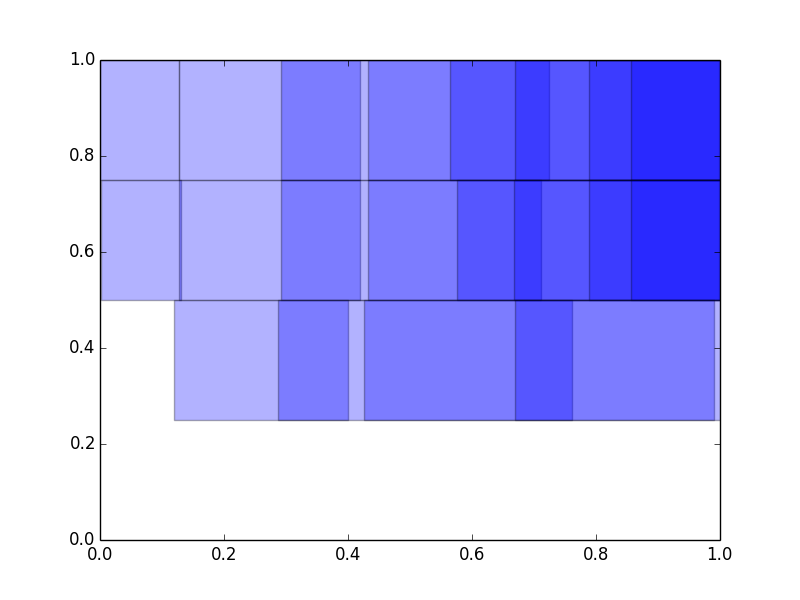
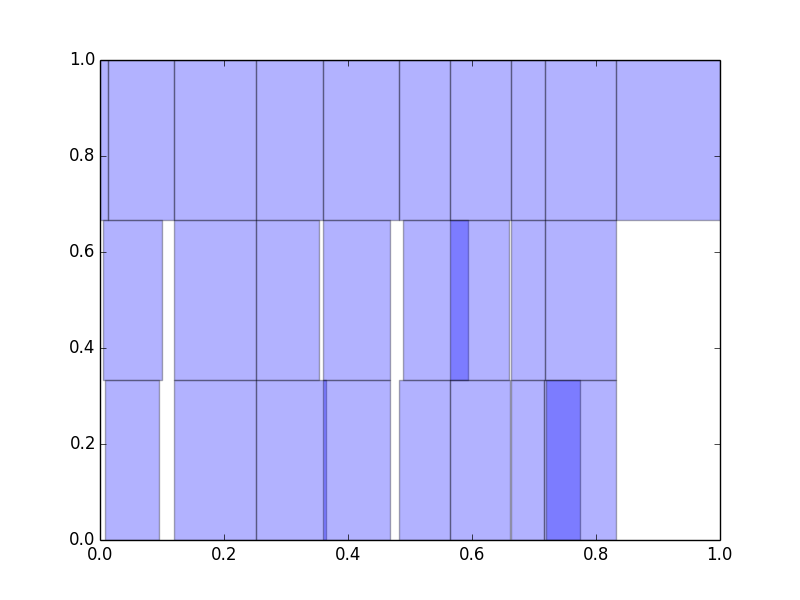
fixed rectangle drawing, improved parameters and neighbor search

diff --git a/meta_alignment.py b/meta_alignment.py
@@ -34,7 +34,7 @@ def extract_match_feature(file, reffile):
     featurefile = (file.replace(audiodir, '') + '_' + reffile.replace(audiodir, '') + '.json')
     featurefile = featuresdir + featurefile.replace('/', '_')
     if not os.path.isfile(featurefile):
-        print 'extracting match feature for ' + file.replace(audiodir, '')
+        print 'extracting match feature for ..' + file[file.rfind('/')-15:] + ' and ..'+reffile[reffile.rfind('/')-15:]
         with open(os.devnull, 'wb') as devnull:
             subprocess.check_output("sonic-annotator -d vamp:match-vamp-plugin:match:a_b -m " + reffile + " " + file + " -w jams", shell=True, stderr=subprocess.STDOUT)
             move(reffile[:reffile.rfind('.flac')]+'.json', featurefile)
@@ -65,12 +65,12 @@ def get_alignment_points(file, reffile):
         featurejson = json.load(f)
     timeline = loadABTimeline(featurejson)
     #plot_line(timeline, featurefile.replace('.json', '.png'))
-    cutoff = int(len(timeline)/4)
+    cutoff = int(len(timeline)/8)
     slope, intercept, r_value = stats.linregress(timeline[cutoff:-cutoff])[:3]
     rsquared = r_value**2
     #print str(slope)+'x + '+str(intercept), 'r^2: '+str(r_value**2)
-    plot_line_reg(timeline, slope, intercept, featurefile.replace('.json', '.png'))
-    if rsquared > 0.98:
+    #plot_line_reg(timeline, slope, intercept, featurefile.replace('.json', '.png'))
+    if rsquared > 0.99:
         filedur = get_duration(file)
         refdur = get_duration(reffile)
         start = intercept
@@ -93,9 +93,9 @@ def plot_timelines(timelines):
     fig = plt.figure()
     ax = fig.add_subplot(111)
     max = timelines[0][-1][1]
-    height = 1.0/(len(timelines)+1)
+    height = 1.0/(len(timelines))
     for i in range(len(timelines)):
-        rects = [patches.Rectangle((point[0]/max, 1-((i+1)*height)), point[1]/max, height, alpha=0.3) for point in timelines[i]]
+        rects = [patches.Rectangle((point[0]/max, 1-((i+1)*height)), (point[1]/max)-(point[0]/max), height, alpha=0.3) for point in timelines[i]]
         for r in rects:
             ax.add_patch(r)
     fig.patch.set_facecolor('white')
@@ -114,32 +114,31 @@ def meta_align(audiodir, outdir):
     #get_alignment_points(get_flac_filepaths(dirs[0])[0], reffiles[0])
     
     timelines = [reftimeline]
+    associations = []
     
+    search_deltas = [0,1,-1,2,-2]
     for dir in dirs:
         currentfiles = get_flac_filepaths(dir)
         current_timeline = []
+        current_associations = []
         ref_index = 0
         for i in range(0, len(currentfiles)):
-            if ref_index < len(reffiles):
-                points = get_alignment_points(currentfiles[i], reffiles[ref_index])
-                if points is not None:
-                    current_ref = reftimeline[ref_index]
-                    current_timeline.append([points[0]+current_ref[0], points[1]+current_ref[0]])
-                ref_index += 1
-        print current_timeline
+            for d in search_deltas:
+                j = ref_index+d
+                if 0 <= j and j < len(reffiles):
+                    print i, ref_index, d
+                    points = get_alignment_points(currentfiles[i], reffiles[j])
+                    if points is not None:
+                        current_timeline.append([points[0]+reftimeline[j][0], points[1]+reftimeline[j][0]])
+                        current_associations.append([i,j])
+                        ref_index = j+1
+                        break
+        #print current_timeline
         timelines.append(current_timeline)
+        associations.append(current_associations)
     
     plot_timelines(timelines)
-    
-    #get_alignment_points(files[0], reffiles[0])
-    #get_alignment_points(reffiles[0], files[0])
-    #get_alignment_points(files[1], reffiles[1])
-    #get_alignment_points(reffiles[1], files[1])
-    
-    #plot_example_alignments(files[0], reffiles[0], resultsdir+'match00.json', resultsdir+'match00.png')
-    #plot_example_alignments(files[1], reffiles[0], resultsdir+'match10.json', resultsdir+'match10.png')
-    #plot_example_alignments(files[0], reffiles[1], resultsdir+'match01.json', resultsdir+'match01.png')
-    #plot_example_alignments(files[1], reffiles[1], resultsdir+'match11.json', resultsdir+'match11.png')
+    print associations
     
     #pyplot some alignments
     
@@ -154,37 +153,3 @@ def meta_align(audiodir, outdir):
     #]
 
 meta_align(audiodir, resultsdir)
-
-#create alignment features and tune wavs
-def align_and_tune(self):
-    extract_features(self.original_audio_folder, self.original_features_folder, [features[0]], "jams")
-    tune_wavs(self.original_audio_folder, self.tuned_audio_folder, self.original_features_folder)
-    #normalize_audio(self.tuned_audio_folder)
-
-#recreate alignment features for tuned wavs, separate channels and extract features for separate channels
-def realign_and_separate_and_analyze(self):
-    extract_features(self.tuned_audio_folder, self.tuned_features_folder, [features[0]], "jams")
-    separate_channels(self.tuned_audio_folder, self.channels_audio_folder)
-    copy_features_of_separated_channels(self.tuned_features_folder, self.channels_features_folder)
-    extract_features(self.channels_audio_folder, self.channels_features_folder, features[1:], "jams")
-
-def create_clustering_and_plots(self):
-    ClusterPlotter().saveSegmentAnalysisAndPlots("mfcc", self.channels_features_folder, self.results_folder)
-    ClusterPlotter().saveSegmentAnalysisAndPlots("chroma", self.channels_features_folder, self.results_folder)
-
-def recursively_analyze_the_shit_out_of_this(self, basefolder, subfolder, outfolder):
-    files = os.listdir(basefolder+subfolder)
-    
-    if any(f.endswith('.wav') for f in files):
-        #analyze current folder
-        self.create_current_folders(basefolder, subfolder, outfolder)
-        #if len(os.listdir(self.channels_audio_folder)) <= 1:
-            #self.align_and_tune()
-        #self.realign_and_separate_and_analyze()
-        self.create_clustering_and_plots()
-    
-    #recursively go through all subfolders
-    for file in files:
-        if os.path.isdir(basefolder+subfolder+file):
-            print "\n WORKING ON ", basefolder+subfolder+file, "\n"
-            self.recursively_analyze_the_shit_out_of_this(basefolder, subfolder+file+"/", outfolder)
